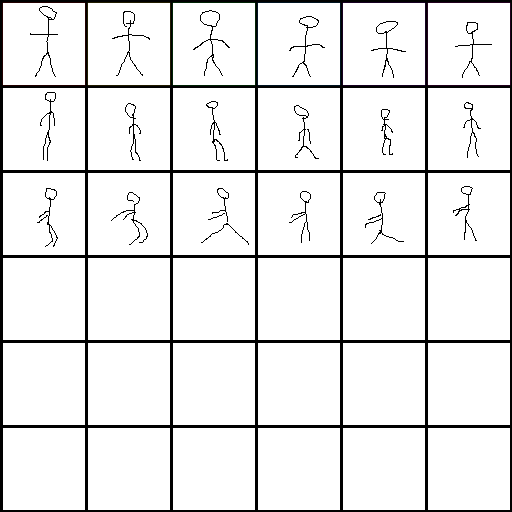
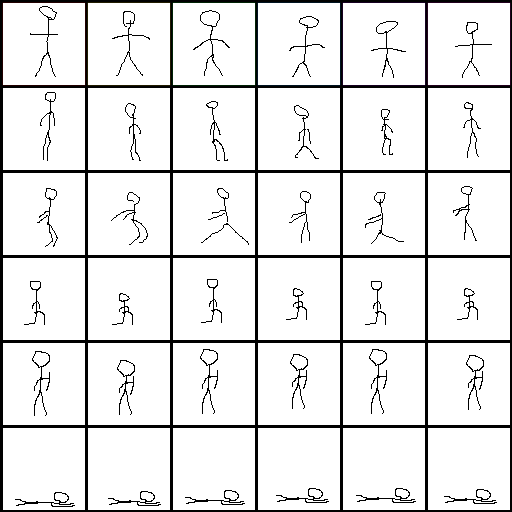
transitions to animations somewhat work

diff --git a/AnimationFSM/main.cpp b/AnimationFSM/main.cpp
@@ -19,10 +19,11 @@ int main()
 		return EXIT_FAILURE;
 	}
 
+
 	// Setup Players Default Animated Sprite
 	AnimatedSprite idle(texture);
 	idle.addFrame(sf::IntRect(3, 3, 84, 84));
-	idle.addFrame(sf::IntRect(88, 2, 84, 84));
+	idle.addFrame(sf::IntRect(88, 3, 84, 84));
 	idle.addFrame(sf::IntRect(173, 3, 84, 84));
 	idle.addFrame(sf::IntRect(258, 3, 84, 84));
 	idle.addFrame(sf::IntRect(343, 3, 84, 84));
@@ -89,30 +90,37 @@ int main()
 			case sf::Event::KeyPressed:
 				if (sf::Keyboard::isKeyPressed(sf::Keyboard::Left))
 				{
+					player.changeAnim(walk);
 					input.setCurrent(Input::Action::LEFT);
 				}
 				else if (sf::Keyboard::isKeyPressed(sf::Keyboard::Right))
 				{
+					player.changeAnim(walk);
 					input.setCurrent(Input::Action::RIGHT);
 				}
 				else if (sf::Keyboard::isKeyPressed(sf::Keyboard::LShift))
 				{
+					player.changeAnim(sprint);
 					input.setCurrent(Input::Action::SPRINT);
 				}
 				else if (sf::Keyboard::isKeyPressed(sf::Keyboard::Down))
 				{
+					player.changeAnim(crouch);
 					input.setCurrent(Input::Action::CROUCH);
 				}
 				else if (sf::Keyboard::isKeyPressed(sf::Keyboard::LControl))
 				{
+					player.changeAnim(block);
 					input.setCurrent(Input::Action::BLOCK);
 				}
 				else if (sf::Keyboard::isKeyPressed(sf::Keyboard::LAlt))
 				{
+					player.changeAnim(prone);
 					input.setCurrent(Input::Action::PRONE);
 				}
 				break;
 			default:
+				player.changeAnim(idle);
 				input.setCurrent(Input::Action::IDLE);
 				break;
 			}

diff --git a/AnimationFSM/Player.cpp b/AnimationFSM/Player.cpp
@@ -68,3 +68,8 @@ void Player::update()
 	//std::cout << "Handle Update" << std::endl;
 	m_animated_sprite.update();
 }
+
+void Player::changeAnim(AnimatedSprite& t_animation)
+{
+	m_animated_sprite = t_animation;
+}

diff --git a/AnimationFSM/Player.h b/AnimationFSM/Player.h
@@ -18,6 +18,7 @@ public:
 	AnimatedSprite& getAnimatedSprite();
 	void handleInput(Input);
 	void update();
+	void changeAnim(AnimatedSprite & t_animation);
 };
 
 #endif // !PLAYER_H
